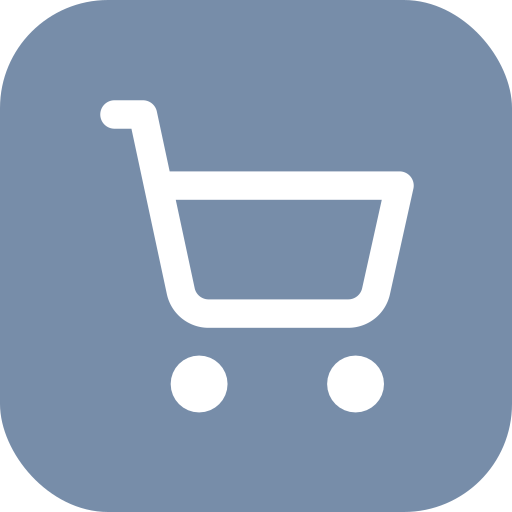
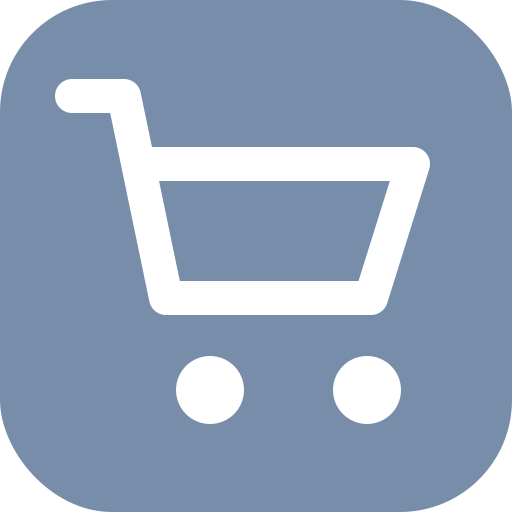
Add files via upload

diff --git a/index.html b/index.html
@@ -5,9 +5,13 @@
 <meta name="viewport" content="width=device-width, initial-scale=1, viewport-fit=cover">
 <meta name="theme-color" content="#f7f5f0">
 <title>Groceries</title>
-<link rel="icon" type="image/svg+xml" href="app-icon.svg">
-<link rel="apple-touch-icon" sizes="180x180" href="app-icon-180.png">
-<link rel="stylesheet" href="style.css?v=1.4.3">
+
+
+<link rel="stylesheet" href="style.css?v=1.4.4">
+
+  <link rel="icon" type="image/svg+xml" href="app-icon.svg?v=1.4.4">
+  <link rel="icon" type="image/png" sizes="512x512" href="app-icon-512.png?v=1.4.4">
+  <link rel="apple-touch-icon" sizes="180x180" href="app-icon-180.png?v=1.4.4">
 </head>
 <body>
 <div class="app">
@@ -42,15 +46,15 @@
   </div>
 
   <main id="list"></main>
-  <div class="appVersion" aria-label="App version">v1.4.3</div>
+  <div class="appVersion" aria-label="App version">v1.4.4</div>
 </div>
 
 <div id="modalRoot"></div>
 
 <script src="https://cdn.jsdelivr.net/npm/@supabase/supabase-js@2"></script>
 <script src="https://cdn.jsdelivr.net/npm/sortablejs@1.15.6/Sortable.min.js"></script>
-<script src="config.js?v=1.4.3"></script>
-<script src="grocery-catalog.js?v=1.4.3"></script>
-<script src="app.js?v=1.4.3"></script>
+<script src="config.js?v=1.4.4"></script>
+<script src="grocery-catalog.js?v=1.4.4"></script>
+<script src="app.js?v=1.4.4"></script>
 </body>
 </html>
